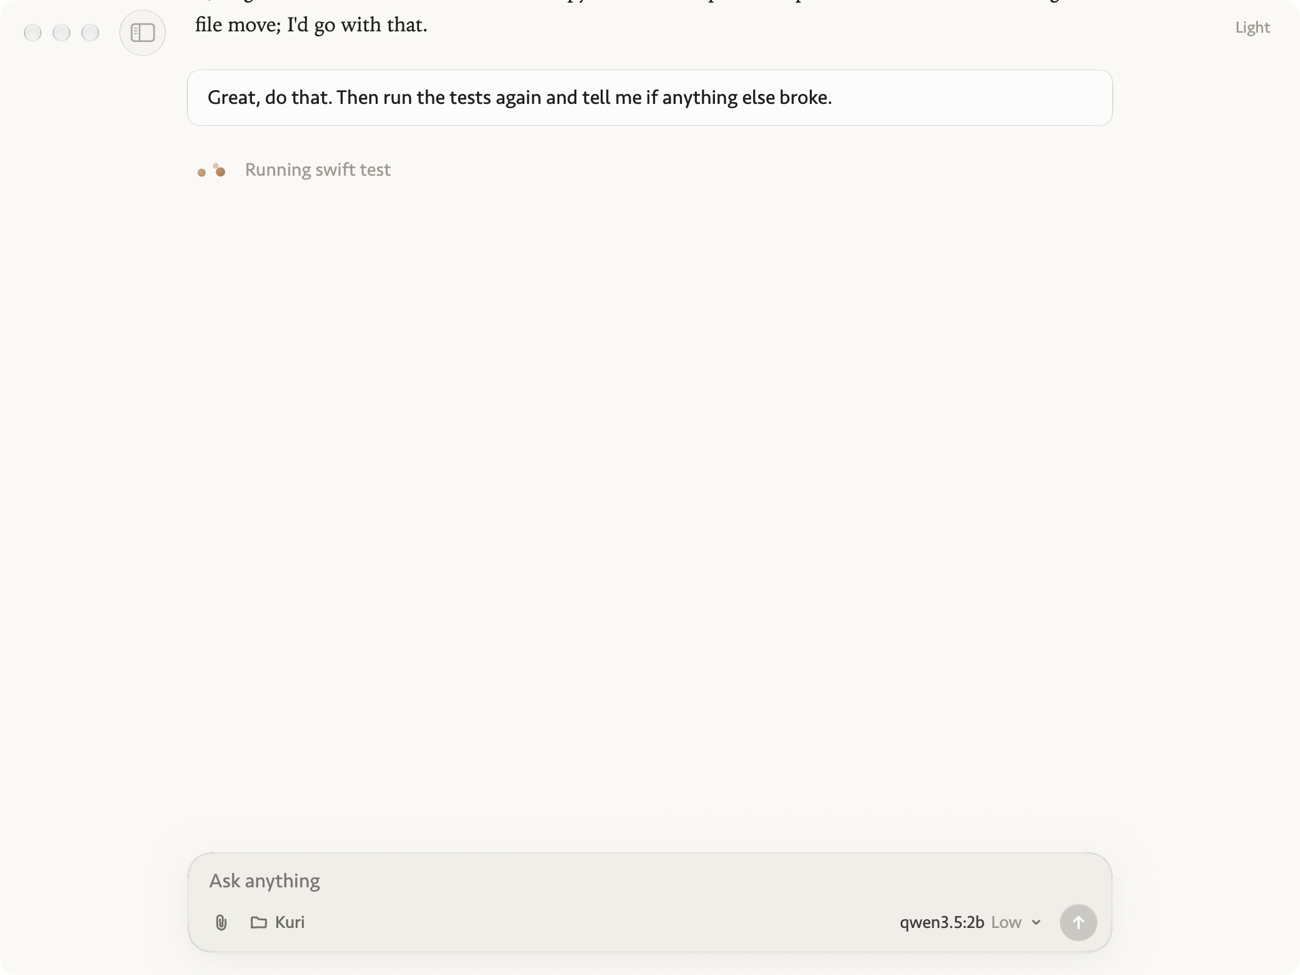
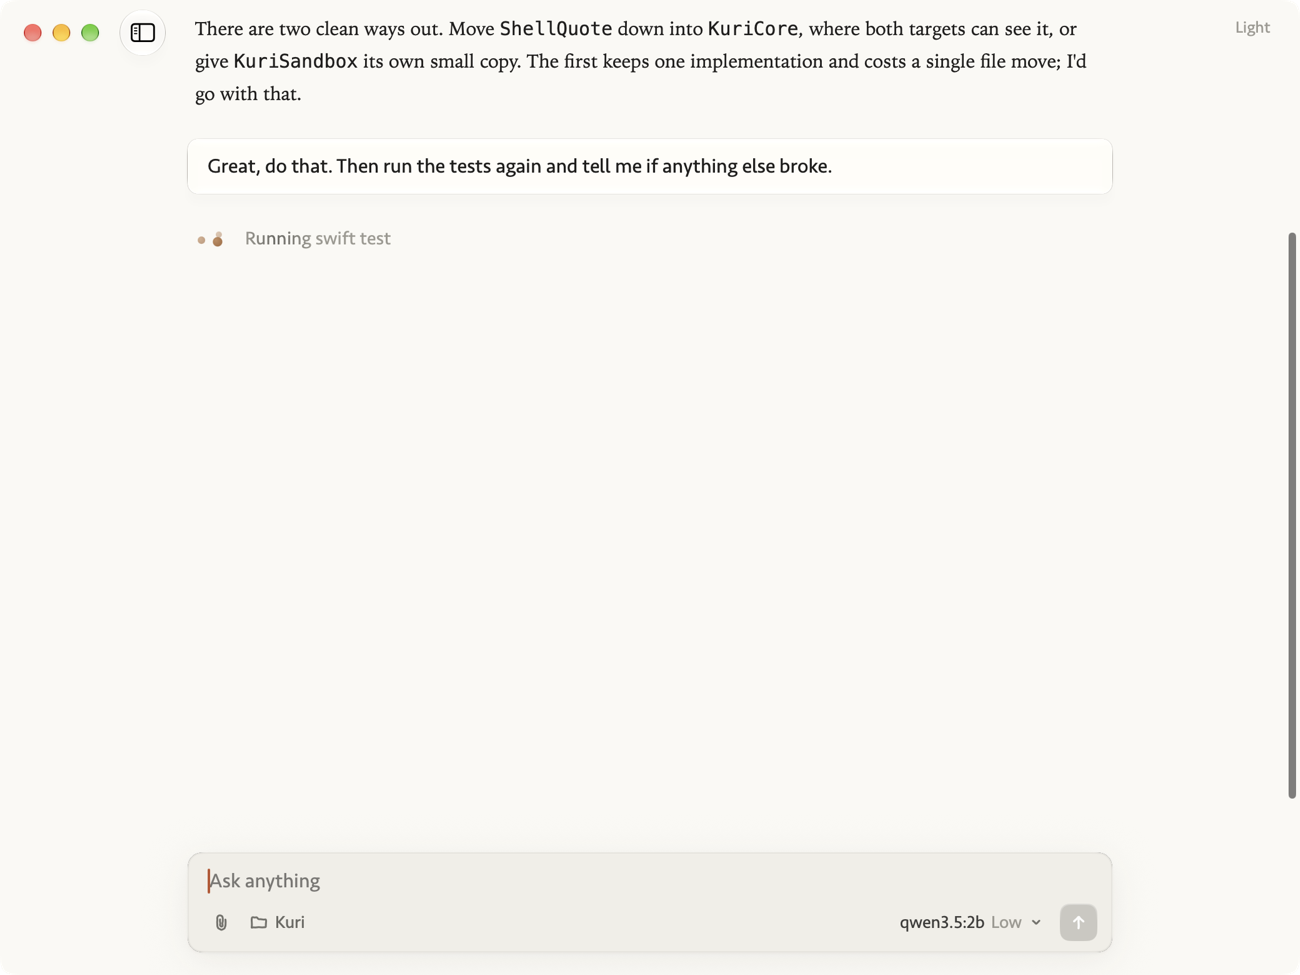
Autumn sketch: hop, shine and shake; tighter corners; denser cards
- The logo's glass is a material instead of glassEffect: Liquid Glass
  is drawn in a separate pass that trailed the shape during the
  reactions, which showed as a ghost outline. Clicks now cycle through
  a hop, a light sweep (shine) and a small left-right shake.
- The greeting's baseline sits on the logo's bottom, and the welcome
  block moves a little to the right.
- New chat in regular weight, still a size up from the chats.
- User cards: a denser, warmer fill inside the glass, and a soft inner
  stroke that tones down the glass's bright top and bottom edges.
- Replies at 15 points.
- Corner radii down: composer 12, send/stop 8, hover washes 7, cards 9.

diff --git a/Sketches/Autumn.swift b/Sketches/Autumn.swift
@@ -25,6 +25,8 @@ enum Tune {
     static let hover = Animation.easeOut(duration: 0.14)
     /// Pressed buttons.
     static let press = Animation.spring(response: 0.22, dampingFraction: 0.65)
+    /// Seconds for the shine to cross the logo.
+    static let shine = 0.7
     /// Seconds for the light to cross the status text once.
     static let shimmer = 3.6
     /// Seconds per word while a fake reply streams.
@@ -57,7 +59,7 @@ struct Palette {
     var iconGradient: LinearGradient { LinearGradient(colors: [iconTop, iconBottom], startPoint: .top, endPoint: .bottom) }
 
     // User cards: a slab of paper, lighter than the background.
-    var cardTop: Color { dark ? hex(0x2B2A28) : hex(0xFFFFFF) }
+    var cardTop: Color { dark ? hex(0x2F2B26) : hex(0xFFFDF8) }
     var cardBottom: Color { dark ? hex(0x262523) : hex(0xFCFBF8) }
     var cardEdge: Color { dark ? hex(0x121110) : hex(0xE4E1D7) }
     var highlight: Color { .white.opacity(dark ? 0.07 : 0.9) }
@@ -278,13 +280,15 @@ struct NewChat: View {
 
     var body: some View {
         VStack(alignment: .leading, spacing: 24) {
-            HStack(spacing: 16) {
+            // The greeting's baseline sits on the logo's bottom.
+            HStack(alignment: .lastTextBaseline, spacing: 16) {
                 GlassChestnut(size: 46)
+                    .alignmentGuide(.lastTextBaseline) { $0[.bottom] - 2 }
                 Text(greeting)
                     .font(Typeface.serif(30))
                     .foregroundStyle(palette.ink)
             }
-            .padding(.leading, 4)
+            .padding(.leading, 18)
             .transition(.asymmetric(insertion: .opacity,
                                     removal: .opacity.combined(with: .scale(scale: 0.96, anchor: .leading)).combined(with: .offset(y: -12))))
             Composer()
@@ -293,7 +297,7 @@ struct NewChat: View {
         .frame(maxWidth: 740)
         .padding(.horizontal, 48)
         .frame(maxWidth: .infinity, maxHeight: .infinity)
-        .offset(y: -20)
+        .offset(x: 12, y: -20)
     }
 
     private var greeting: String {
@@ -306,54 +310,49 @@ struct NewChat: View {
 
 // MARK: - Logo
 
-/// The chestnut from the app icon, in Liquid Glass tinted with the icon's
-/// gradient. Still at rest; each click plays one of a few small reactions,
-/// never the same twice in a row.
+/// The chestnut from the app icon, in frosted glass tinted with the icon's
+/// gradient. Still at rest; clicks cycle through a hop, a shine and a shake.
+///
+/// The glass is a material, not `glassEffect`: Liquid Glass is drawn in a
+/// separate pass that trails the shape while it's scaled or moved, which
+/// showed as a ghost outline during the reactions.
 struct GlassChestnut: View {
     let size: CGFloat
     @Environment(\.palette) private var palette
-    /// One counter per reaction; bumping one plays it.
-    @State private var plays: [Reaction: Int] = [:]
-    @State private var last = Reaction.hop
-
-    enum Reaction: CaseIterable {
-        /// Squish, jump, land.
-        case hop
-        /// Two small hops, the second smaller.
-        case skip
-        /// Shakes its head, like a jelly.
-        case wiggle
-        /// A jump with a full turn in the air.
-        case flip
-    }
+    @State private var hops = 0
+    @State private var shines = 0
+    @State private var shakes = 0
+    @State private var clicks = 0
 
     struct Pose { var sx = 1.0, sy = 1.0, y = 0.0, r = 0.0 }
 
     var body: some View {
         let shape = ChestnutShape()
         ZStack {
-            Color.clear
-                .glassEffect(.regular.tint(palette.iconBottom.opacity(0.3)), in: shape)
-            // The icon's gradient, thin enough that the glass shows through.
-            shape.fill(palette.iconGradient).opacity(palette.dark ? 0.6 : 0.5)
+            shape.fill(.ultraThinMaterial)
+            // The icon's gradient, thin enough that the frost shows through.
+            shape.fill(palette.iconGradient).opacity(palette.dark ? 0.7 : 0.6)
             // Depth: the glass thickens toward the bottom...
             shape.fill(LinearGradient(colors: [.clear, palette.iconTop.opacity(0.35)], startPoint: .center, endPoint: .bottom))
             // ...and catches the light at the top.
-            shape.fill(LinearGradient(colors: [.white.opacity(palette.dark ? 0.18 : 0.35), .clear], startPoint: .top, endPoint: .center))
-            shape.stroke(LinearGradient(colors: [.white.opacity(palette.dark ? 0.45 : 0.85), .white.opacity(0.12)],
+            shape.fill(LinearGradient(colors: [.white.opacity(palette.dark ? 0.16 : 0.32), .clear], startPoint: .top, endPoint: .center))
+            Shine(trigger: shines).mask(shape)
+            shape.stroke(LinearGradient(colors: [.white.opacity(palette.dark ? 0.4 : 0.8), .white.opacity(0.1)],
                                         startPoint: .top, endPoint: .bottom), lineWidth: 1)
         }
         .frame(width: size, height: size)
         .compositingGroup()
         .shadow(color: palette.shadow.opacity(palette.dark ? 0.35 : 0.1), radius: 4, y: 2)
         .contentShape(shape)
-        .keyframeAnimator(initialValue: Pose(), trigger: plays[.hop, default: 0], content: { Self.pose($0, $1) }) { _ in Self.hop }
-        .keyframeAnimator(initialValue: Pose(), trigger: plays[.skip, default: 0], content: { Self.pose($0, $1) }) { _ in Self.skip }
-        .keyframeAnimator(initialValue: Pose(), trigger: plays[.wiggle, default: 0], content: { Self.pose($0, $1) }) { _ in Self.wiggle }
-        .keyframeAnimator(initialValue: Pose(), trigger: plays[.flip, default: 0], content: { Self.pose($0, $1) }) { _ in Self.flip }
+        .keyframeAnimator(initialValue: Pose(), trigger: hops, content: { Self.pose($0, $1) }) { _ in Self.hop }
+        .keyframeAnimator(initialValue: Pose(), trigger: shakes, content: { Self.pose($0, $1) }) { _ in Self.shake }
         .onTapGesture {
-            last = Reaction.allCases.filter { $0 != last }.randomElement()!
-            plays[last, default: 0] += 1
+            switch clicks % 3 {
+            case 0: hops += 1
+            case 1: shines += 1
+            default: shakes += 1
+            }
+            clicks += 1
         }
     }
 
@@ -365,8 +364,7 @@ struct GlassChestnut: View {
             .offset(y: v.y)
     }
 
-    // Heights are in points for the 46-point logo.
-
+    /// Squish, jump, land. Heights are in points for the 46-point logo.
     @KeyframesBuilder<Pose> static var hop: some Keyframes<Pose> {
         KeyframeTrack(\Pose.sy) {
             SpringKeyframe(0.84, duration: 0.1)
@@ -390,70 +388,37 @@ struct GlassChestnut: View {
             SpringKeyframe(0, duration: 0.4, spring: .bouncy)
         }
     }
+}
 
-    @KeyframesBuilder<Pose> static var skip: some Keyframes<Pose> {
-        KeyframeTrack(\Pose.sy) {
-            SpringKeyframe(0.88, duration: 0.08)
-            SpringKeyframe(1.05, duration: 0.12)
-            SpringKeyframe(0.9, duration: 0.2)
-            SpringKeyframe(1.03, duration: 0.1)
-            SpringKeyframe(1, duration: 0.4, spring: .bouncy)
-        }
-        KeyframeTrack(\Pose.sx) {
-            SpringKeyframe(1.08, duration: 0.08)
-            SpringKeyframe(0.97, duration: 0.12)
-            SpringKeyframe(1.06, duration: 0.2)
-            SpringKeyframe(0.99, duration: 0.1)
-            SpringKeyframe(1, duration: 0.4, spring: .bouncy)
-        }
-        KeyframeTrack(\Pose.y) {
-            LinearKeyframe(0, duration: 0.08)
-            SpringKeyframe(-9, duration: 0.14)
-            SpringKeyframe(0, duration: 0.16)
-            SpringKeyframe(-5, duration: 0.12)
-            SpringKeyframe(0, duration: 0.4, spring: .bouncy)
+extension GlassChestnut {
+    /// A small no: left, right, settle. Rotation only, around the centre.
+    @KeyframesBuilder<Pose> static var shake: some Keyframes<Pose> {
+        KeyframeTrack(\Pose.r) {
+            SpringKeyframe(-7, duration: 0.08)
+            SpringKeyframe(6, duration: 0.11)
+            SpringKeyframe(-4, duration: 0.11)
+            SpringKeyframe(2, duration: 0.1)
+            SpringKeyframe(0, duration: 0.35, spring: .smooth)
         }
     }
+}
 
-    @KeyframesBuilder<Pose> static var wiggle: some Keyframes<Pose> {
-        KeyframeTrack(\Pose.r) {
-            SpringKeyframe(-11, duration: 0.09)
-            SpringKeyframe(10, duration: 0.12)
-            SpringKeyframe(-7, duration: 0.12)
-            SpringKeyframe(4, duration: 0.12)
-            SpringKeyframe(0, duration: 0.4, spring: .bouncy)
-        }
-        KeyframeTrack(\Pose.sy) {
-            SpringKeyframe(0.94, duration: 0.09)
-            SpringKeyframe(1, duration: 0.5, spring: .bouncy)
-        }
-    }
+/// A band of light crossing the logo diagonally, once per trigger.
+struct Shine: View {
+    let trigger: Int
 
-    @KeyframesBuilder<Pose> static var flip: some Keyframes<Pose> {
-        KeyframeTrack(\Pose.sy) {
-            SpringKeyframe(0.82, duration: 0.12)
-            SpringKeyframe(1.04, duration: 0.14)
-            CubicKeyframe(1, duration: 0.34)
-            SpringKeyframe(0.9, duration: 0.08)
-            SpringKeyframe(1, duration: 0.4, spring: .bouncy)
-        }
-        KeyframeTrack(\Pose.sx) {
-            SpringKeyframe(1.14, duration: 0.12)
-            SpringKeyframe(0.96, duration: 0.14)
-            CubicKeyframe(1, duration: 0.34)
-            SpringKeyframe(1.08, duration: 0.08)
-            SpringKeyframe(1, duration: 0.4, spring: .bouncy)
-        }
-        KeyframeTrack(\Pose.y) {
-            LinearKeyframe(0, duration: 0.12)
-            CubicKeyframe(-20, duration: 0.24)
-            CubicKeyframe(0, duration: 0.24)
-            SpringKeyframe(0, duration: 0.48, spring: .bouncy)
-        }
-        KeyframeTrack(\Pose.r) {
-            LinearKeyframe(0, duration: 0.14)
-            CubicKeyframe(360, duration: 0.46)
-            LinearKeyframe(360, duration: 0.48)
+    var body: some View {
+        GeometryReader { geometry in
+            let w = geometry.size.width
+            LinearGradient(colors: [.clear, .white.opacity(0.55), .clear], startPoint: .leading, endPoint: .trailing)
+                .frame(width: w * 0.45, height: w * 1.6)
+                .rotationEffect(.degrees(25))
+                .keyframeAnimator(initialValue: -w, trigger: trigger) { band, x in
+                    band.offset(x: x, y: -w * 0.3)
+                } keyframes: { _ in
+                    CubicKeyframe(-w, duration: 0.01)
+                    CubicKeyframe(w * 1.4, duration: Tune.shine)
+                }
         }
     }
 }
@@ -571,7 +536,7 @@ struct Conversation: View {
         } else {
             // Inline Markdown only; full Markdown is the first item of the UI roadmap.
             Text(LocalizedStringKey(message.text))
-                .font(Typeface.serif(16))
+                .font(Typeface.serif(15))
                 .lineSpacing(5)
                 .foregroundStyle(palette.ink)
                 .textSelection(.enabled)
@@ -589,7 +554,7 @@ struct UserCard: View {
     @Environment(\.palette) private var palette
 
     var body: some View {
-        let shape = RoundedRectangle(cornerRadius: 10, style: .continuous)
+        let shape = RoundedRectangle(cornerRadius: 9, style: .continuous)
         Text(text)
             .font(Typeface.sans(15.5))
             .lineSpacing(3)
@@ -600,8 +565,10 @@ struct UserCard: View {
             .padding(.vertical, 12)
             // The glass alone turns grey on a light surface: a warm fill inside
             // it sets the colour, the glass adds the edge light and depth.
-            .background(shape.fill(palette.cardTop.opacity(palette.dark ? 0.45 : 0.75)))
+            .background(shape.fill(palette.cardTop.opacity(palette.dark ? 0.85 : 0.92)))
             .glassEffect(.regular, in: shape)
+            // Tones down the glass's bright rim on the top and bottom edges.
+            .overlay(shape.strokeBorder(palette.cardTop.opacity(0.55), lineWidth: 1.5))
     }
 }
 
@@ -673,7 +640,7 @@ struct Composer: View {
 
     var body: some View {
         @Bindable var chat = chat
-        let shape = RoundedRectangle(cornerRadius: 20, style: .continuous)
+        let shape = RoundedRectangle(cornerRadius: 12, style: .continuous)
         VStack(alignment: .leading, spacing: 8) {
             TextField("Ask anything", text: $chat.draft, axis: .vertical)
                 .textFieldStyle(.plain)
@@ -772,8 +739,8 @@ struct SendButton: View {
             chat.busy ? chat.stop() : chat.send()
         } label: {
             ZStack {
-                Circle().fill(ready ? AnyShapeStyle(palette.accentFill) : AnyShapeStyle(palette.faint.opacity(0.45)))
-                Circle().strokeBorder(LinearGradient(colors: [.white.opacity(0.35), .clear], startPoint: .top, endPoint: .center), lineWidth: 1)
+                RoundedRectangle(cornerRadius: 8, style: .continuous).fill(ready ? AnyShapeStyle(palette.accentFill) : AnyShapeStyle(palette.faint.opacity(0.45)))
+                RoundedRectangle(cornerRadius: 8, style: .continuous).strokeBorder(LinearGradient(colors: [.white.opacity(0.35), .clear], startPoint: .top, endPoint: .center), lineWidth: 1)
                 ZStack {
                     if chat.busy {
                         RoundedRectangle(cornerRadius: 2.5, style: .continuous)
@@ -823,7 +790,7 @@ struct Sidebar: View {
             Button {} label: {
                 HStack(spacing: 8) {
                     PencilIcon(glyph: .compose, size: 17, color: palette.ink)
-                    Text("New chat").font(Typeface.sans(14.5).weight(.medium)).foregroundStyle(palette.ink)
+                    Text("New chat").font(Typeface.sans(14.5)).foregroundStyle(palette.ink)
                     Spacer(minLength: 0)
                 }
                 .padding(.horizontal, 8)
@@ -844,7 +811,7 @@ struct HoverWash<S: Shape>: ViewModifier {
     @Environment(\.palette) private var palette
     @State private var hovering = false
 
-    init(shape: S = Capsule()) { self.shape = shape }
+    init(shape: S) { self.shape = shape }
 
     func body(content: Content) -> some View {
         content
@@ -853,6 +820,10 @@ struct HoverWash<S: Shape>: ViewModifier {
             .onHover { hovering = $0 }
             .animation(Tune.hover, value: hovering)
     }
+}
+
+extension HoverWash where S == RoundedRectangle {
+    init() { self.init(shape: RoundedRectangle(cornerRadius: 7, style: .continuous)) }
 }
 
 /// Presses sink a little and spring back.
